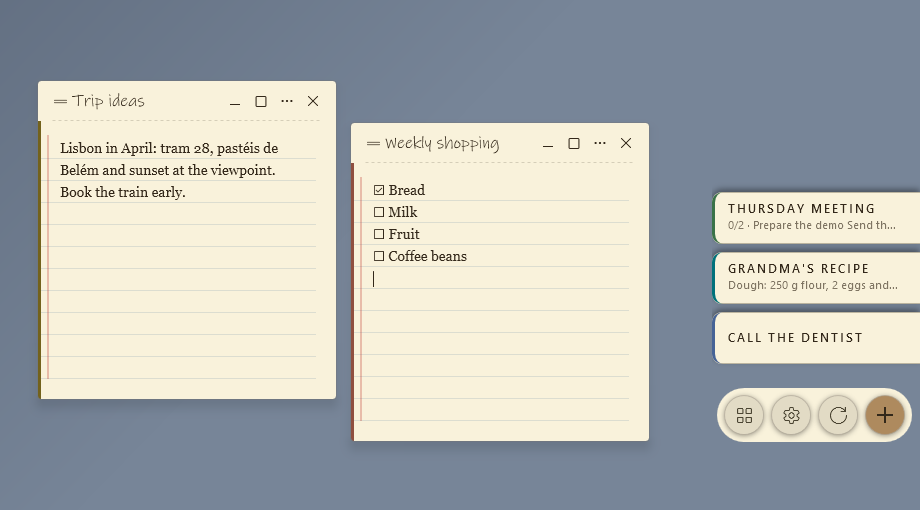
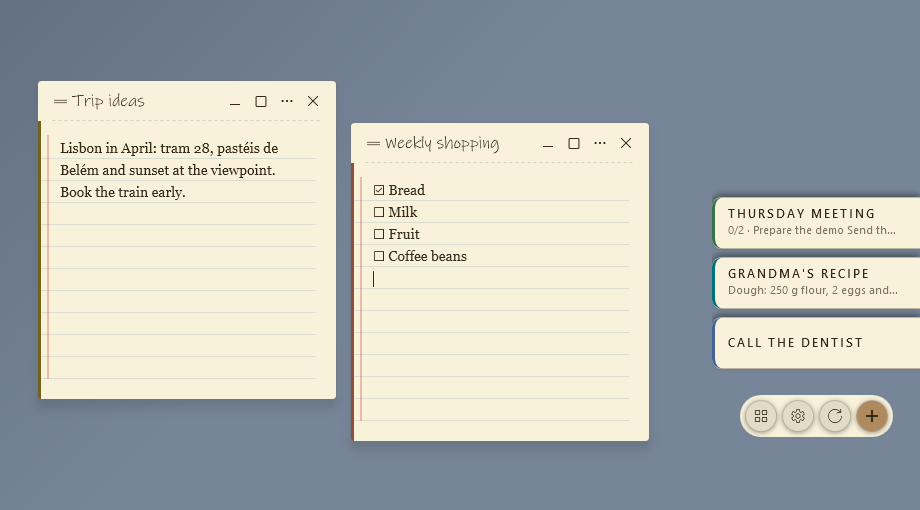
Docs: README screenshots and GIF retaken with the 32 px footer bar; status of what was checked

Changed region(s): [[0.7609, 0.3529, 1.0, 0.6765], [0.7609, 0.7059, 1.0, 0.8824]]

diff --git a/docs/STATUS.md b/docs/STATUS.md
@@ -203,7 +203,7 @@ Tests: 506/506 passing (`dotnet test tests/Aldune.Core.Tests --no-restore`).
   fits the note, New-note button moved to the filter row in accent, manager buttons follow "Text size", readable disabled text in every look, symmetric dock button bar with four 40 px buttons).
   **Pinned notes** (published in Windows 2.2.0 and Android 1.1.0; spec `specs/2026-10-31-pinned-notes-design.md`), done on both platforms: Core, Room (migration 4 to 5), the sync mapping, the vectors (C# and Kotlin), and the interface. Windows: entry in the note's menu and in the dock tab's right-click menu, a pin marker in the tab's badge row, a pin toggle on each manager row; the deck lists pinned notes first (`ORDER BY PinnedToTop DESC` in `GetByState`) and dragging a tab stays inside its group. Android: pin action in the long-press sheet, in the options sheet and in the editor's three-dots menu, a drawn pin on the row, `DockOrder` partitions pinned first (so the widget and the colour channel inherit it) and drag / Move up-down only act inside the group. **Compatibility:** the pin travels as the optional field `pinnedToTop` of the encrypted payload, written only when true, so the sync format stays 4; an older version (2.1.x / 1.0.x) shows the note unpinned and, if it *edits* and re-sends it, **drops the pin** (checked: both old versions read the new vectors, including the pinned note; only the old writer lacks the field). A key rotation on Windows used to drop the pin (and the visible name of protected notes) because the re-keyed copy did not carry the optional fields; fixed with a test. 25 sync tests cover the pin on both sides.
 
-  **Round after 2.2.0 / 1.1.0 (unreleased, proposed 2.3.0 / 1.2.0)**, local commits only: per-note done-tasks setting (Core, Windows, Android; Room 5 to 6), local version history (Core, Windows window, Android dialog), Android tags (All chip, all-tags dialog, manual order, `#` setting), bottom sheets following square corners, long-press menu about 350 ms sooner, release check over 100 releases, widget task progress and pin mark, dock view by wheel and an "All notes" view, menus ask for the skin's chrome font. **Not verified on screen:** the Windows version-history window, the dock wheel behaviour with 0/3/8/30 notes on the four edges, the widget on a home screen. **Known gap:** on Android a sync that overwrites a note does not first keep the local text in the history (Windows does).
+  **Round after 2.2.0 / 1.1.0 (unreleased, proposed 2.3.0 / 1.2.0)**, local commits only: per-note done-tasks setting (Core, Windows, Android; Room 5 to 6), local version history (Core, Windows window, Android dialog), Android tags (All chip, all-tags dialog, manual order, `#` setting), bottom sheets following square corners, long-press menu about 350 ms sooner, release check over 100 releases, widget task progress and pin mark, dock view by wheel and an "All notes" view, menus ask for the skin's chrome font. **Checked without a mouse or screen (off-screen probes):** the dock wheel cycle on the four edges, the protected space behind a task box (caret, typing, paste) and the Android sync tick against a local server. **Not verified on screen:** the physical Left key next to a task box, the widget on a home screen. README screenshots and the GIF were retaken for the new footer bar. **Known gap:** on Android a sync that overwrites a note does not first keep the local text in the history (Windows does).
   **Android editor (2026-10-31, second session):** the note title lives in its own field in the editor header, like the Windows note window (`NoteText`: the note is still one text, first line = title, so nothing changes in storage or sync); the three-dots menu gets Pin, Archive and Trash; the long-press sheet offers Archive, Trash and Restore (the swipe actions, now discoverable), opens fully with no drag handle and scrolls in landscape; the options sheet lists the existing tags as one-tap chips; Settings tabs sit in one row in landscape and in an even 3-column grid in portrait. Decisions and the "do not" list in `docs/DECISIONS-2026-10-31.md`.
   New: Compose instrumented tests on a device (`./gradlew :app:connectedDebugAndroidTest`, see `ANDROID_PROBES.md`) and `ButtonContrastTests`.
 
